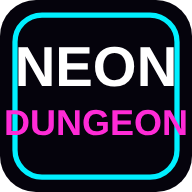
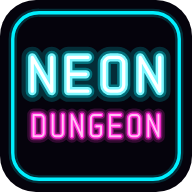
Novo ícone do app: letras de neon desenhadas em vetor, sem vazar da borda, e ícone maskable para Android
Claude-Session: https://claude.ai/code/session_01SwVZecvFguCiE4WVFsm5jn

diff --git a/index.html b/index.html
@@ -26,8 +26,8 @@
   <link href="https://fonts.googleapis.com/css2?family=Orbitron:wght@500;700;900&family=Rajdhani:wght@500;600;700&display=swap" rel="stylesheet" />
   <link rel="stylesheet" href="css/style.css" />
   <link rel="manifest" href="manifest.webmanifest" />
-  <link rel="icon" href="img/icon.svg" type="image/svg+xml" />
-  <link rel="apple-touch-icon" href="img/icon-192.png" />
+  <link rel="icon" href="img/icon.svg?v=2" type="image/svg+xml" />
+  <link rel="apple-touch-icon" href="img/icon-192.png?v=2" />
   <meta name="apple-mobile-web-app-status-bar-style" content="black-translucent" />
   <script type="importmap">
     { "imports": { "three": "./vendor/three/three.module.js", "three/addons/": "./vendor/three/addons/" } }

diff --git a/AGENTS.md b/AGENTS.md
@@ -56,7 +56,7 @@ gh run watch "$id" --exit-status
 index.html            all HUD/menu markup; importmap maps "three" -> vendor/three
 manifest.webmanifest  PWA manifest (icons point into img/)
 css/style.css         all UI styles
-img/                  app icons (icon.svg, icon-192/512.png) and og-image.png (link preview)
+img/                  app icons (icon.svg, icon-192/512.png, icon-maskable-512.png; letters are drawn as paths, no fonts) and og-image.png (link preview)
 docs/                 ARCHITECTURE.md, CONTENT.md and screenshots/ (reference only, not loaded by the game)
 js/                   game modules (see below)
 vendor/three/         Three.js r160 + the postprocessing addons in use. Don't edit; copy new addons from r160 with their deps
